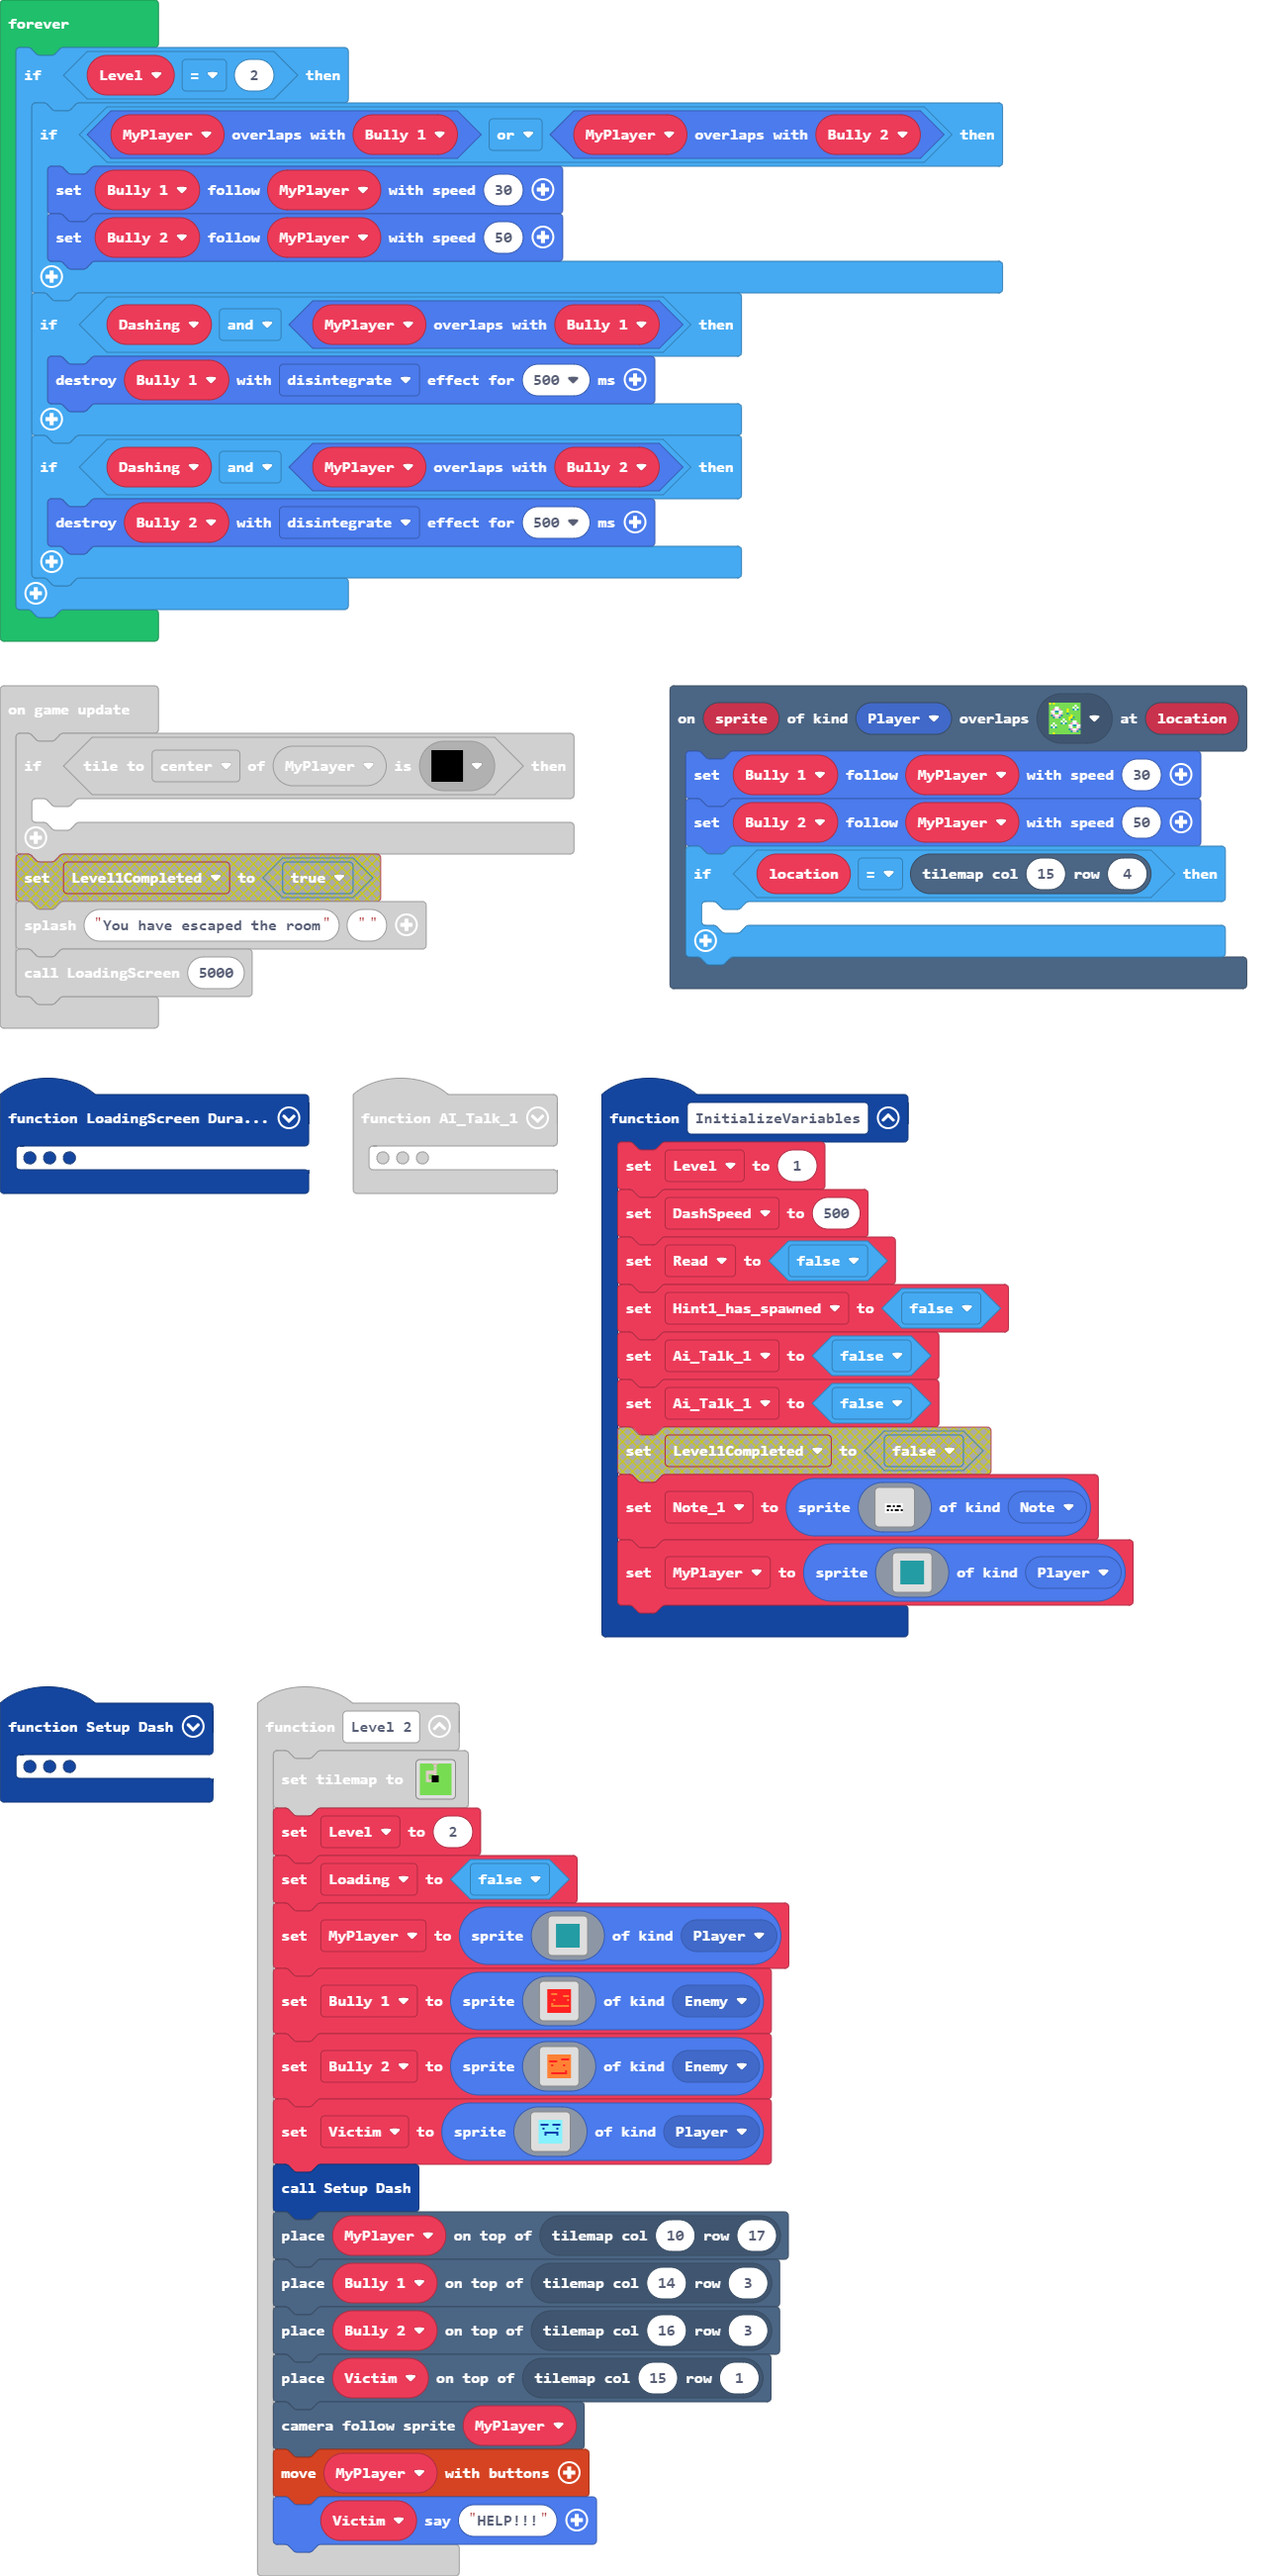
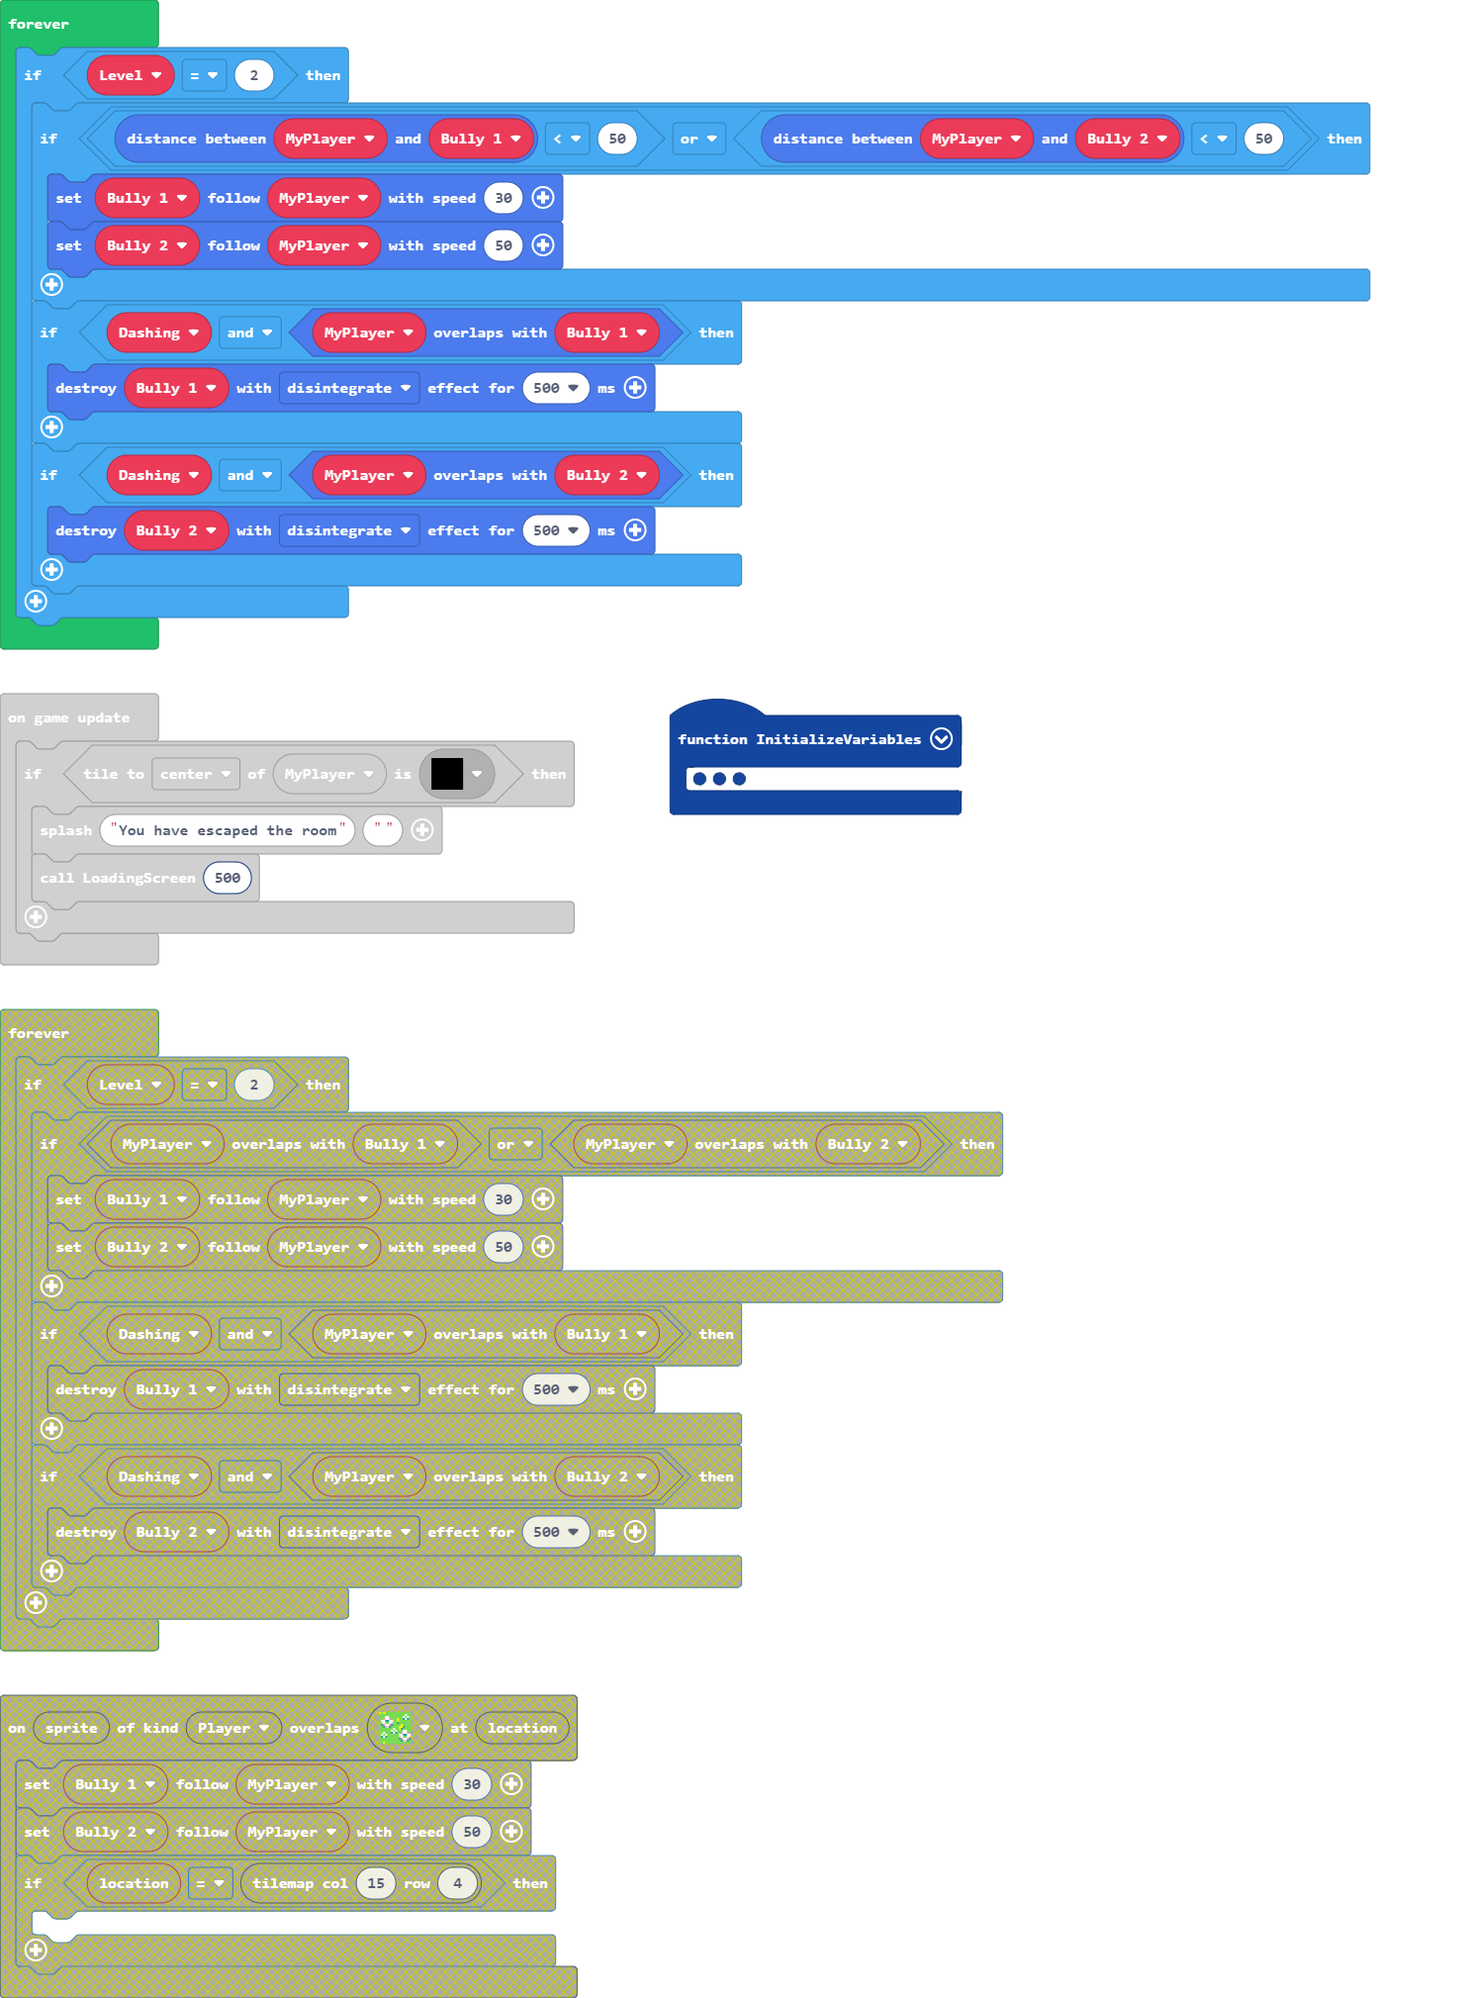
Update pxt.json, main.blocks, main.ts

diff --git a/main.ts b/main.ts
@@ -162,13 +162,6 @@ controller.down.onEvent(ControllerButtonEvent.Pressed, function () {
         MyPlayer.setImage(assets.image`Player_BottomRight`)
     }
 })
-scene.onOverlapTile(SpriteKind.Player, sprites.castle.tileGrass2, function (sprite, location) {
-    Bully_1.follow(MyPlayer, 30)
-    Bully_2.follow(MyPlayer, 50)
-    if (location == tiles.getTileLocation(15, 4)) {
-    	
-    }
-})
 function LoadingScreen (Duration: number) {
     Cloud_Sprite = sprites.createProjectileFromSide(assets.image`Cloud`, 100, 0)
     Cloud_Sprite.setPosition(0, randint(0, 120))
@@ -252,7 +245,7 @@ Note_1.say("A")
 game.onUpdate(function () {
     if (MyPlayer.tileKindAt(TileDirection.Center, assets.tile`Check Point`)) {
         game.splash("You have escaped the room")
-        LoadingScreen(5000)
+        LoadingScreen(500)
     }
 })
 game.onUpdate(function () {
@@ -303,7 +296,7 @@ game.onUpdate(function () {
 })
 forever(function () {
     if (Level == 2) {
-        if (MyPlayer.overlapsWith(Bully_1) || MyPlayer.overlapsWith(Bully_2)) {
+        if (spriteutils.distanceBetween(MyPlayer, Bully_1) < 50 || spriteutils.distanceBetween(MyPlayer, Bully_2) < 50) {
             Bully_1.follow(MyPlayer, 30)
             Bully_2.follow(MyPlayer, 50)
         }
